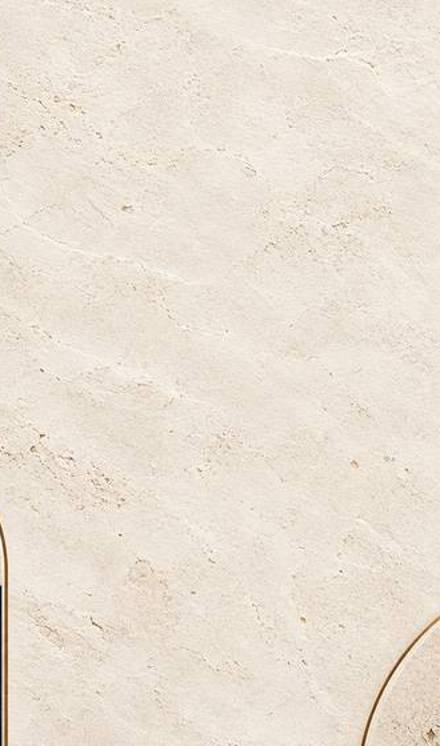
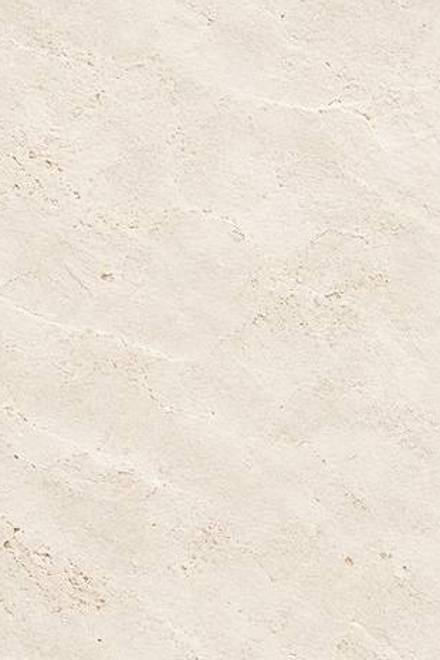
Simplify gates: remove confetti and kicker text, smaller higher seal
- Remove confetti entirely
- Closed gates show only the logo seal and the open button
- Seal smaller and higher; slimmer button and seam
- Clean stone texture on the doors; hide card face until opened

Claude-Session: https://claude.ai/code/session_01Ko9xmDHSJCXhA6SiTh4mU5

diff --git a/index.html b/index.html
@@ -104,7 +104,7 @@ main{position:relative;z-index:1;padding-inline:16px;padding-block:28px 56px;dis
 .closing{margin:1.8cqw 0 0;font-size:3.8cqw;font-weight:500}
 
 /* ---------- gates: two stone doors sealed with the family logo ---------- */
-.doors{position:absolute;inset:0;z-index:5;display:flex;direction:ltr;perspective:1100px;border-radius:6px;
+.doors{position:absolute;inset:-2px;z-index:5;display:flex;direction:ltr;perspective:1100px;border-radius:6px;
   border:0;padding:0;margin:0;background:none;cursor:pointer;font:inherit;color:inherit;transform:translateZ(1px)}
 .doors:focus-visible{outline:2px solid var(--gold-hi);outline-offset:4px}
 .door{position:relative;width:50%;height:100%;background:url(doors.jpg) 0 0/200% 100% var(--stone);
@@ -113,34 +113,31 @@ main{position:relative;z-index:1;padding-inline:16px;padding-block:28px 56px;dis
 .door.l{transform-origin:left center;border-radius:6px 0 0 6px}
 .door.r{transform-origin:right center;background-position:100% 0;border-radius:0 6px 6px 0}
 .door::before{content:"";position:absolute;inset:6cqw 0 6cqw 6cqw;border:.35cqw solid var(--gold);border-right:0;
-  border-radius:40cqw 0 0 0/32cqw 0 0 0;box-shadow:inset 0 0 0 1.2cqw transparent,inset 0 0 0 1.5cqw rgba(201,154,91,.5)}
+  border-radius:40cqw 0 0 0/32cqw 0 0 0}
 .door.r::before{inset:6cqw 6cqw 6cqw 0;border:.35cqw solid var(--gold);border-left:0;border-radius:0 40cqw 0 0/0 32cqw 0 0}
-.seam{position:absolute;inset:0 auto 0 50%;width:.5cqw;margin-left:-.25cqw;pointer-events:none;
+.seam{position:absolute;inset:6cqw auto 6cqw 50%;width:.35cqw;margin-left:-.175cqw;pointer-events:none;
   background:linear-gradient(180deg,transparent,var(--gold-hi) 20%,#fff6dd 50%,var(--gold-hi) 80%,transparent);
   box-shadow:0 0 3cqw 1cqw rgba(241,211,154,.55);transition:transform 1.2s ease,opacity 1.2s ease .2s}
-.seal-wrap{position:absolute;left:50%;top:44%;transform:translate(-50%,-50%);display:flex;flex-direction:column;align-items:center;gap:3cqw;
+.seal-wrap{position:absolute;left:50%;top:38%;transform:translate(-50%,-50%);display:flex;flex-direction:column;align-items:center;gap:3cqw;
   pointer-events:none;transition:opacity .45s ease,transform .6s cubic-bezier(.3,1.5,.5,1)}
-.seal-kicker{font-family:var(--f-text);font-weight:700;font-size:4.6cqw;color:var(--navy);white-space:nowrap;
-  text-shadow:0 1px 0 rgba(255,255,255,.6)}
-.seal{width:32cqw;aspect-ratio:1;border-radius:50%;display:grid;place-items:center;
+.seal{width:24cqw;aspect-ratio:1;border-radius:50%;display:grid;place-items:center;
   background:radial-gradient(circle at 35% 30%,#fbf6ec,#e6d9c1 70%);
   box-shadow:0 0 0 .8cqw var(--gold),0 0 0 1.6cqw rgba(241,211,154,.35),0 2cqw 4cqw rgba(13,26,51,.4);
   animation:pulse 2.4s ease-in-out infinite}
 .seal img{width:62%}
 @keyframes pulse{0%,100%{box-shadow:0 0 0 .8cqw var(--gold),0 0 0 1.6cqw rgba(241,211,154,.35),0 2cqw 4cqw rgba(13,26,51,.4)}
   50%{box-shadow:0 0 0 .8cqw var(--gold),0 0 0 3.4cqw rgba(241,211,154,0),0 2cqw 4cqw rgba(13,26,51,.4)}}
-.seal-cta{font-family:var(--f-text);font-weight:700;font-size:4.2cqw;color:var(--night);white-space:nowrap;
-  background:linear-gradient(180deg,var(--gold-hi),var(--gold));padding:1.6cqw 5cqw;border-radius:10cqw;
+.seal-cta{font-family:var(--f-text);font-weight:700;font-size:3.6cqw;color:var(--night);white-space:nowrap;
+  background:linear-gradient(180deg,var(--gold-hi),var(--gold));padding:1.4cqw 4.4cqw;border-radius:10cqw;
   box-shadow:0 1cqw 2.5cqw rgba(13,26,51,.3)}
 .card.opened .seal-wrap{opacity:0;transform:translate(-50%,-50%) scale(1.25)}
 .card.opened .door.l{transform:rotateY(-108deg);filter:brightness(.7);opacity:0}
 .card.opened .door.r{transform:rotateY(108deg);filter:brightness(.7);opacity:0}
 .card.opened .seam{transform:scaleX(60);opacity:0}
 .card.opened .doors{pointer-events:none}
+.card:not(.opened) .face,.card:not(.opened) .edge{visibility:hidden}
 /* content waits behind the doors until they open */
 .card:not(.opened) .rise,.card:not(.opened) .logo,.card:not(.opened) .name::after{animation-play-state:paused}
-.name{cursor:pointer;-webkit-tap-highlight-color:transparent}
-#confetti{position:fixed;inset:0;width:100%;height:100%;pointer-events:none;z-index:10}
 
 .rise{animation:rise .9s cubic-bezier(.2,.8,.2,1) both;animation-delay:calc(.9s + var(--i)*.16s)}
 @keyframes rise{from{opacity:0;transform:translateY(3cqw)}to{opacity:1;transform:none}}
@@ -187,7 +184,6 @@ main{position:relative;z-index:1;padding-inline:16px;padding-block:28px 56px;dis
 
 
 <canvas id="sky" aria-hidden="true"></canvas>
-<canvas id="confetti" aria-hidden="true"></canvas>
 <main>
   <div class="stage">
     <article class="card" id="card" aria-label="הזמנה לבר המצווה של דניאל פנחס יהודה">
@@ -207,7 +203,6 @@ main{position:relative;z-index:1;padding-inline:16px;padding-block:28px 56px;dis
         <span class="door l"></span><span class="door r"></span>
         <span class="seam"></span>
         <span class="seal-wrap">
-          <span class="seal-kicker">הזמנה לבר המצווה של דניאל</span>
           <span class="seal"><img src="logo.png" alt=""></span>
           <span class="seal-cta">לחצו לפתיחת ההזמנה</span>
         </span>
@@ -300,37 +295,9 @@ main{position:relative;z-index:1;padding-inline:16px;padding-block:28px 56px;dis
     startTilt();
     card.classList.add('opened');
     doors.setAttribute('aria-hidden','true'); doors.tabIndex=-1;
-    setTimeout(()=>{ const r=card.getBoundingClientRect(); burst(r.left+r.width/2, r.top+r.height*.42, 90); }, reduce?0:750);
     setTimeout(()=>{ doors.hidden=true; }, 1700);
   }
   doors.addEventListener('click',()=>{ if(moved<10) openGates(); });
-
-  /* ---- confetti: once on opening, then on tapping the name ---- */
-  document.querySelector('.name').addEventListener('click',e=>{ if(opened && moved<10) burst(e.clientX,e.clientY,70); });
-  const cf=document.getElementById('confetti'), cx2=cf.getContext('2d');
-  const COLORS=['#f1d39a','#c99a5b','#e8c27a','#1d3466','#efe6d6'];
-  let bits=[], running=false;
-  function burst(x,y,n){
-    if(reduce) return;
-    const dpr=Math.min(2,devicePixelRatio||1);
-    cf.width=innerWidth*dpr; cf.height=innerHeight*dpr; cx2.setTransform(dpr,0,0,dpr,0,0);
-    for(let i=0;i<n;i++){
-      const a=-Math.PI/2+(Math.random()-.5)*Math.PI*1.1, v=5+Math.random()*7;
-      bits.push({x,y,vx:Math.cos(a)*v,vy:Math.sin(a)*v,w:5+Math.random()*5,h:8+Math.random()*7,
-        r:Math.random()*6.28,vr:(Math.random()-.5)*.3,f:Math.random()*6.28,c:COLORS[i%COLORS.length],life:0});
-    }
-    if(!running){ running=true; requestAnimationFrame(fall); }
-  }
-  function fall(){
-    cx2.clearRect(0,0,innerWidth,innerHeight);
-    bits=bits.filter(b=>b.y<innerHeight+30 && b.life<260);
-    for(const b of bits){
-      b.life++; b.vy+=.22; b.vx*=.985; b.vy*=.985; b.x+=b.vx+Math.sin(b.life/12+b.f)*.6; b.y+=b.vy; b.r+=b.vr;
-      cx2.save(); cx2.translate(b.x,b.y); cx2.rotate(b.r); cx2.scale(1,Math.cos(b.life/6+b.f));
-      cx2.globalAlpha=b.life>200?(260-b.life)/60:1; cx2.fillStyle=b.c; cx2.fillRect(-b.w/2,-b.h/2,b.w,b.h); cx2.restore();
-    }
-    if(bits.length) requestAnimationFrame(fall); else { running=false; cx2.clearRect(0,0,innerWidth,innerHeight); }
-  }
 
   function frame(t){
     if(arrived && !reduce){
